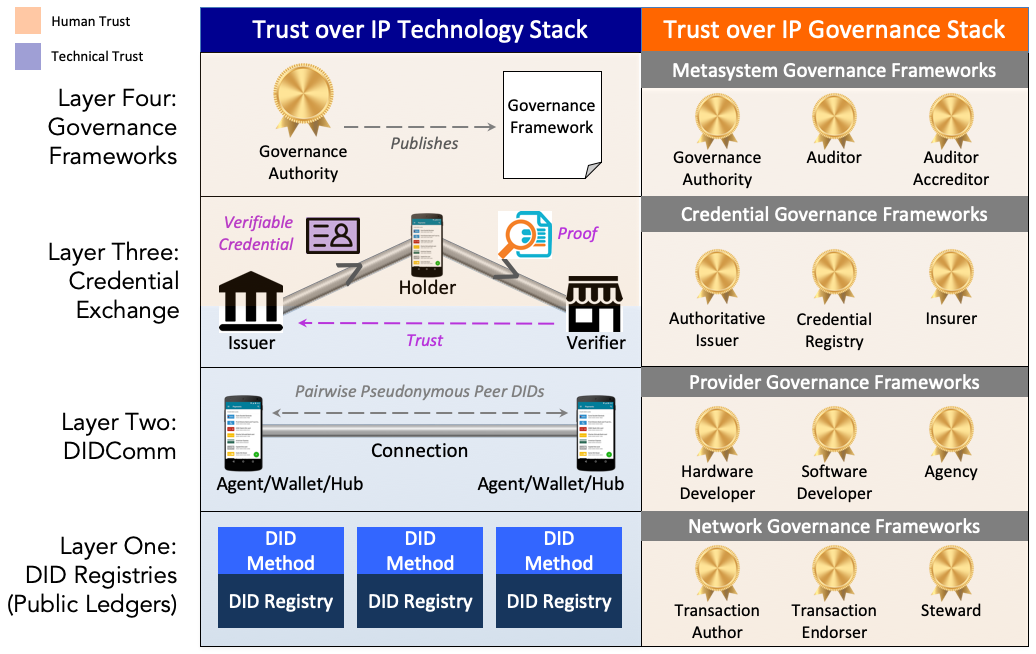
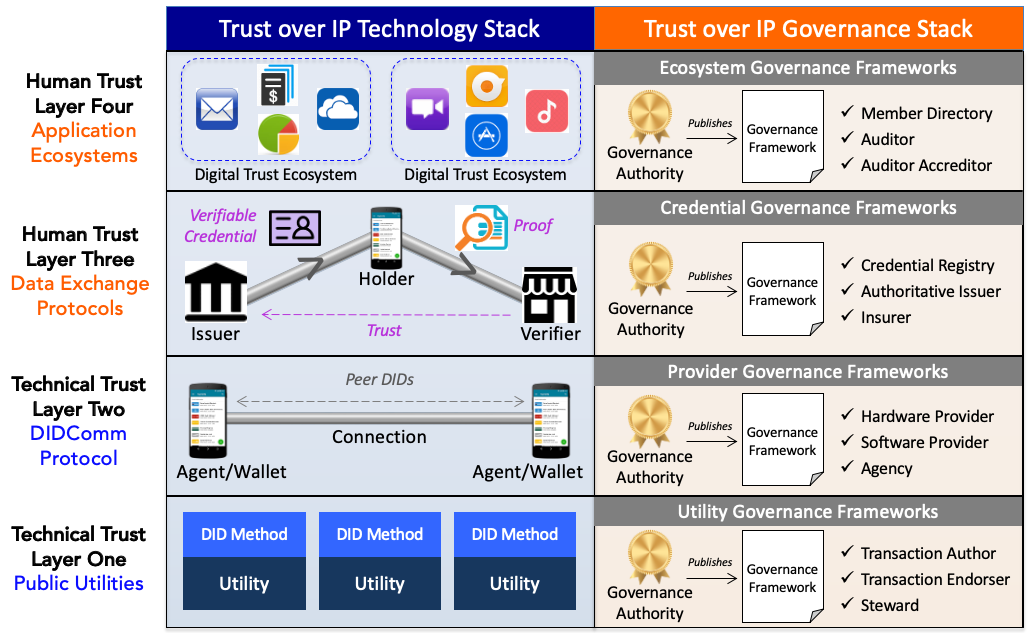
revised per latest ToIP stack diagram

diff --git a/concepts/0289-toip-stack/README.md b/concepts/0289-toip-stack/README.md
@@ -17,7 +17,7 @@ This widely-adopted open source implementation of the TCP/IP stack offered the c
 In addition, secure protocol suites such as the Secure Sockets Layer (SSL), and its modern version, Transport Layer Security (TLS), have been protecting Internet transactions since 1995.
 
 Without a doubt, implementations of the TCP/IP stack, followed by SSL/TLS, have driven a tremendous amount of innovation over the last 30 years.
-However, although protocols such as TLS offer world-class security, the architecture over which they have been built leaves a significant and widely-recognized gap: a means for any peer to establish trust over these digital connections. For example, while TLS does allow a user to trust she is accessing the right website, it does not offer, at least in an usable way, a way for the user to _log in_, or prove her identity, to the website. This gap has often been referred to as "the Internet's missing identity layer" [3].
+However, although protocols such as TLS offer world-class security, the architecture over which they have been built leaves a significant and widely-recognized gap: **a means for any peer to establish trust over these digital connections**. For example, while TLS does allow a user to trust she is accessing the right website, it does not offer, at least in an usable way, a way for the user to _log in_, or prove her identity, to the website. This gap has often been referred to as "the Internet's missing identity layer" [3].
 
 The purpose of this Aries Concept RFC is to fill this gap by defining a standard information network architecture that developers can implement to establish trusted relationships over digital communicatons networks.
 
@@ -30,9 +30,13 @@ Since the ultimate purpose of an "identity layer" is not actually to identify en
 
 **Figure 1: The ToIP stack**
 
-Note that it is actually a "dual stack": two parallel stacks encompassing both technology and governance. This reflects the fact that digital trust cannot be achieved by technology alone, but only by humans and technology working together. The unique role of governance in the ToIP stack is explored in detail in the section on Layer Four.
+Note that it is actually a "dual stack": two parallel stacks encompassing both technology and governance. This reflects the fact that digital trust cannot be achieved by technology alone, but only by humans and technology working together.
 
-## Layer One: Decentralized Identifier (DID) Networks
+**Important: The ToIP stack does not define specific governance frameworks.** Rather it is a *metamodel* for how to design and implement digital governance frameworks that can be universally referenced, understood, and consumed in order to facilitate transitive trust online. This approach to defining governance makes it easier for  humans—and the software agents that represent us at Layer Two—to make trust decisions both within and across trust boundaries.
+
+The ToIP Governance Stack plays a special role in ToIP architecture. See the descriptions of the specialized governance frameworks at each layer and also the special section on Scaling Digital Trust.
+
+## Layer One: Public Utilities for Decentralized Identifiers (DIDs)
 
 The ToIP stack is fundamentally made possible by new advancements in cryptography and distributed systems, including blockchains and distributed ledgers. Their high availability and cryptographic verifiability enable strong roots of trust that are decentralized so they will not serve as single points of failure.
 
@@ -57,21 +61,34 @@ Figure 2 shows the resemblance between DID syntax and URN syntax (RFC 8141).
 
 Like the URN specification, the DID specification also defines a generic URI scheme which is in turn used for defining other specific URI schemes. With DIDs, these are called *DID methods*. Each DID method is defined by its own DID method specification that must include:
 
-1. The target system (called a *DID registry*) against which the DID method operates. Note that this is not limited to a blockchain or distributed ledger. DID methods can be designed to work with any type of distributed database, file system, or other system that can anchor a cryptographic root of trust.
+1. The target system (technically called a *verifiable data registry*) against which the DID method operates. In the ToIP stack this is called a *utility*. Note that a utility is not limited to a blockchain or distributed ledger. DID methods can be designed to work with any type of distributed database, file system, or other system that can anchor a cryptographic root of trust.
 2. The DID method name.
 3. The syntax of the DID method-specific string.
 4. The CRUD (Create, Read, Update, Delete) operations for DIDs and DID documents that conform to the specification.
 
-DIDs have already proved to be a popular solution to decentralized PKI (public key infrastructure) [8]. Over 33 DID methods have already been registered in the informal DID Method Registry [9] hosted by the W3C Credentials Community Group. They include methods for:
+DIDs have already proved to be a popular solution to decentralized PKI (public key infrastructure) [8]. Over 40 DID methods have already been registered in the informal DID Method Registry [9] hosted by the W3C Credentials Community Group. They include methods for:
 
 * Permissionless blockchains such as Bitcoin (three methods), Ethereum (six methods), Veres One, IOTA, RChain, Ontology, etc.
 * Permissioned ledgers such as the [Sovrin ledger](https://sovrin.org/).
 * Distributed file systems such as IPFS.
 * Ledgerless P2P networks such as git, JLINC, and peer DIDs.
 
+### Utility Governance Frameworks
+
+A Layer One public utility may choose any governance model suited to the the constraints of its business model, legal model, and technical architecture. This is true whether the public utility is operated as a blockchain, distributed ledger, or decentralized file store, or whether it is permissioned, permissionless, or any hybrid. (Note that even permissionless blockchain networks still have rules—formal or informal—governing who can update the code.)
+
+All ToIP architecture requires is that the governance model conform to the requirements of the ToIP Governance Stack to support both interoperability and transitive trust. This includes transparent identification of the governance authority, the governance framework, and participant nodes or operators; transparent discovery of nodes and/or service endpoints; and transparent security, privacy, data protection, and other operational policies. See the Governance section below.
+
+The ToIP Governance Stack Utility Governance Framework model will support standard roles for public-permissioned utilities such as those based on Hyperledger Indy, including:
+
+* **Transaction Authors:** initiate transactions
+* **Transaction Endorsers:** permission transactions for Transaction Authors
+* **Stewards:** operate a node of the ledger
+
+
 ### Layer One Support for Higher Layers
 
-DIDs and DID documents are not the only cryptographic data structures that Layer One provides to support the higher layers. The others include:
+DIDs and DID documents are not the only cryptographic data structures needed to support the higher layers. The others include:
 
 * **Schemas** define the claims (attributes) that can be included in verifiable credentials (Layer Three).
 * **Credential definitions** specify the claims and related metadata needed by an issuer of verifiable credentials (Layer Three).
@@ -80,7 +97,7 @@ DIDs and DID documents are not the only cryptographic data structures that Layer
 
 In summary, the interoperability of Layer One is defined by the W3C DID specification and Aries RFCs for the other cryptographic data structures listed above. Any DID registry that supports all of these data structures can work with any agent, wallet, and hub that operates at Layer Two.
 
-## Layer Two: DIDComm
+## Layer Two: The DIDComm Protocol
 
 The second layer of the Trust over IP stack is defined by the DIDComm secure messaging standards [10]. This family of specifications, which are now being defined in the DIDComm Working Group at the [Decentralized Identity Foundation](https://identity.foundation/) , establish a cryptographic means by which any two software agents (peers) can securely communicate either directly edge-to-edge or via intermediate cloud agents as shown in Figure 3).
 
@@ -92,7 +109,7 @@ The second layer of the Trust over IP stack is defined by the DIDComm secure mes
 
 A fundamental feature of DIDComm is that by default all DID-to-DID connections are established and secured using pairwise pseudonymous *peer DIDs* as defined in the [Peer DID Method Specification](https://openssi.github.io/peer-did-method-spec/) [11]. These DIDs are based on key pairs generated and stored by the local cryptographic key management system (KMS, aka "wallet") maintained by each agent. Agents then use the DID Exchange protocol to exchange peer DIDs and DID documents in order to establish and maintain secure private *connections* between each other—including key rotation or revocation as needed during the lifetime of a trusted relationship.
 
-Because all of the components of peer DIDs and DID-to-DID connections are created, stored, and managed at Layer Two, there is no need for them to be registered in a Layer One public DID registry. In fact there are good privacy and security reasons not to—these components can stay entirely private to the peers. As a general rule, the only ToIP actors who should need public DIDs at Layer One are credential issuers as explained in Layer Three below.
+Because all of the components of peer DIDs and DID-to-DID connections are created, stored, and managed at Layer Two, there is no need for them to be registered in a Layer One public utility. In fact there are good privacy and security reasons not to—these components can stay entirely private to the peers. As a general rule, the only ToIP actors who should need public DIDs at Layer One are credential issuers as explained in Layer Three below.
 
 This also means that, once formed, DID-to-DID connections can be used for any type of secure communications between the peers. Furthermore, these connections are capable of lasting literally *forever*. There are no intermediary service providers of any kind involved. The only reason a DID-to-DID connection needs to end is that one or both of the peers no longer wants it.
 
@@ -102,23 +119,31 @@ At Layer Two, every agent is paired with a *digital wallet*—or more accurately
 
 This job includes the difficult challenge of recovery after a device is lost or stolen or a KMS is hacked or corrupted. This is the province of decentralized key management. For more details, see the [Decentralized Key Management System (DKMS) Design and Architecture document](http://bit.ly/dkms-v4) [12], and Dr. Sam Smith's paper on [KERI (Key Event Receipt Infrastructure)](https://arxiv.org/abs/1907.02143) [13].
 
-### Hubs
+### Encrypted Data Stores
 
-Agents may also be paired with a digital *hub* (also called an *encrypted data vault*)—a data store with three special properties:
+Agents may also be paired with an *encrypted data store*—a database with three special properties:
 
 1. It is controlled exclusively by the DID controller (person, organization, or thing) and not by any intermediary or third party.
 2. All the data is encrypted with private keys in the subject’s KMS.
-3. If a DID controller has more than one hub, the set of hubs can be automatically synchronized according to the owner’s preferences.
+3. If a DID controller has more than one encrypted data store, the set of stores can be automatically synchronized according to the owner’s preferences.
 
-Work on standardizing digital hubs is proceeding in different projects besides Aries, including at the [Decentralized Identity Foundation](http://identity.foundation/), the [Ethereum Foundation](https://ethereum.org/), and the [W3C Credentials Community Group](https://www.w3.org/community/credentials/) .
+Work on standardizing encrypted data stores is proceeding in several projects in addition to Hyperledger Aries—primarily at the [Decentralized Identity Foundation](http://identity.foundation/) (DIF) and the [W3C Credentials Community Group](https://www.w3.org/community/credentials/). Work is currently underway to form an Encrypted Data Store Working Group at DIF.
+
+### Provider Governance Frameworks
+
+The need for governance at Layer Two is security, privacy, data protection, and interoperable testing and certification requirements for the following roles:
+
+* **Hardware Developers:** provide ToIP-compliant hardware, e.g., secure enclaves, trusted execution environments, HSMs
+* **Software Developers:** provide ToIP-compliant agents, wallets, encrypted data stores, etc.
+* **Agencies:** host ToIP-compliant cloud agents
 
 ### Layer Two Support for Higher Layers
 
 The purpose of Layer Two is to enable peers to form secure DID-to-DID connections so they can:
 
 1. Issue, exchange, and verify credentials over these connections at Layer Three.
-2. Access the Layer One cryptographic data structures needed to issue and verify these credentials regardless of the DID registry used by the issuer.
-3. Migrate and port ToIP data between agents, wallets, and hubs without restriction. This data portability is critical to the broad adoption and interoperability of ToIP.
+2. Access the Layer One cryptographic data structures needed to issue and verify these credentials regardless of the public utility used by the issuer.
+3. Migrate and port ToIP data between agents, wallets, and  encrypted data stores without restriction. This data portability is critical to the broad adoption and interoperability of ToIP.
 
 ## Layer Three: Verifiable Credential Exchange
 
@@ -130,9 +155,9 @@ Layer Three is currently the most advanced in terms of open standards. After sev
 
 Figure 4 is a diagram of the three core roles in verifiable credential exchange—often called the "trust triangle". For more information see the [Verifiable Credentials Primer](https://github.com/WebOfTrustInfo/rwot8-barcelona/blob/master/topics-and-advance-readings/verifiable-credentials-primer.md) [15].
 
-![Figure 4: The three main roles in the W3C Verifiable Credentials ecosystem](./img/fig-4-vc-trust-triangle.png)
+![Figure 4: The three primary roles in the W3C Verifiable Credentials Data Model](./img/fig-4-vc-trust-triangle.png)
 
-**Figure 4: The three main roles in the W3C Verifiable Credentials ecosystem**
+**Figure 4: The three primary roles in the W3C Verifiable Credentials Data Model**
 
 ### Credential Proof Types
 
@@ -151,31 +176,54 @@ All three proof types address specific needs in the market:
 To support all three of these credential proof types in the ToIP stack means:
 
 * Layer One must support the data structures necessary to issue and verify each proof type.
-* Layer Two agents, wallets, and hubs must support storage and export of the cryptographic materials needed for each proof type.
+* Layer Two agents, wallets, and encrypted data stores must support storage and export of the cryptographic materials needed for each proof type.
 * Layer Three must support credential exchange protocols for each proof type.
 
 ### Credential Exchange Protocols
 
-At Layer Three, the exchange of verifiable credentials is performed by agents using extensions of the DIDComm protocol. Extension protocol specifications are being published as part of the DIDComm suite [10]. Extension protocols are unique to each credential proof type because the request and response formats are different. The goal of the ToIP stack is to standardize all supported credential exchange protocols so that any ToIP-compatible agent, wallet, and hub can work with any other agent, wallet, and hub.
+At Layer Three, the exchange of verifiable credentials is performed by agents using extensions of the DIDComm protocol. Extension protocol specifications are being published as part of the DIDComm suite [10]. Extension protocols are unique to each credential proof type because the request and response formats are different. The goal of the ToIP stack is to standardize all supported credential exchange protocols so that any ToIP-compatible agent, wallet, and encrypted data store can work with any other agent, wallet, and encrypted data store.
 
 With fully interoperable verifiable credentials, any issuer may issue any set of claims to any holder who can then prove them to any verifier. This is a fully decentralized system that uses the same trust triangle as the physical credentials we carry in our physical wallets today. This simple, universal trust model can be adapted to any set of requirements from any trust community. Even better, in most cases it does not require new “trust infrastructure”, rather it simply enables existing physical credentials to be transformed into a more flexible and useful digital format.
 
+### Credential Governance Frameworks
+
+Since Layer Three is where the ToIP stack crosses over from technical trust to human trust, this is the layer where governance frameworks become a critical component for interoperability and scalability of digital trust ecosystems. Credential governance frameworks specify one or more credential definitions together with the list or policy governing who can be the authoritative issuers for those credentials. They also specify the policies those issuers must follow to issue and revoke those credentials, and furthermore can include business models, liability frameworks, and insurance models.
+
+Standard for credential governance frameworks that will be defined under the ToIP Governance Stack model include:
+
+* **Authoritative Issuers:** an issuer authorized by the governance authority to issue specific types of credentials at specific levels of assurance
+* **Credential Registries:** An alternate authoritative holder of credentials (usually to support public searchable directories)
+* **Insurers:** provide insurance to issuers operating under the terms of the governance framework
+
 ### Layer Three Support for Higher Layers
 
-Layer Three enables human trust—in the form of verifiable assertions about entities, attributes and relationships—to be layered over the cryptographic trust provided by Layers One and Two. Layer Four adds interoperable governance models to Layer Three. While governance itself is a quintessentially human process, it is still supported by specific technical features of Layer Three:
+Layer Three enables human trust—in the form of verifiable assertions about entities, attributes and relationships—to be layered over the cryptographic trust provided by Layers One and Two. Layer Four is the application ecosystems that request and consume these verifiable credentials in order to support the specific trust models and policies of their own digital trust ecosystem.
 
-* **Specific types of verifiable credentials** implement the roles and responsibilities defined in governance frameworks.
-* **Specific types of verifiable credential claims** enable them to be linked to governance frameworks.
+## Layer Four: Application Ecosystems
 
-These special types of verifiable credentials and claims will typically be defined by *metasystem governance frameworks* (see below).
+Layer Four is the layer where humans interact with applications in order to engage in trusted interactions that serve a specific business, legal, or social purpose. Just as applications call the TCP/IP stack to communicate over the Internet, applications call the ToIP stack to register DIDs, form connections, obtain and exchange verifiable credentials, and engage in trusted data exchange using the protocols in Layers One, Two, and Three.
 
-## Layer Four: Governance Frameworks
+The ToIP stack no more  limits the applications that can be built on it than the TCP/IP stack  limits the applications that can be built on the Internet. The ToIP stack simply defines the "tools and rules"—technology and governance—for those applications to interoperate within digital trust ecosystems that provide the security, privacy, and data protection that their members expect. The ToIP stack also enables consistent user experience of trust decisions across applications and ecosystems that is critical to achieving widespread trust online—just as a consistent user experience of the controls for driving a car (steering wheel, gas pedal, brakes, turn signals) are critical to the safety of drivers throughout the world.
 
-The top half of Figure 5 below shows the basic trust triangle architecture used by verifiable credentials. The bottom half shows a second trust triangle—the *governance trust triangle*—that can solve a number of problems related to the real-world adoption and scalability of verifiable credentials.
+### Ecosystem Governance Frameworks
 
-![Figure 5: The role of governance frameworks](./img/fig-5-gov-frameworks.png)
+Layer Four is where humans will directly experience the ToIP Governance Stack—specifically the trust marks and policy promises of ecosystem governance frameworks. These specify the prupose, principes, and policies that apply to all  governance authorities and governance frameworks operating within that ecosystem—at all four levels of the ToIP stack.
 
-**Figure 5: The role of governance frameworks**
+The ToIP Governance Stack will specify standard roles for an ecosystem governance framework (EGF) including:
+
+* **Member Directories:** list the public DIDs and other searchable attributes of participants in the EGF
+* **Auditors:** audit participants in a EGF for compliance with the EGF policies
+* **Accreditors:** accredit auditors for a EGF
+
+To fully understand the scope and power of ecosystem governance frameworks, let us dive deeper into the special role of the ToIP Governance Stack.
+
+## Scaling Digital Trust
+
+The top half of Figure 5 below shows the basic trust triangle architecture used by verifiable credentials. The bottom half shows a second trust triangle—the *governance trust triangle*—that can solve a number of problems related to the real-world adoption and scalability of verifiable credentials and the ToIP stack.
+
+![Figure 5: The special role of governance frameworks](./img/fig-5-gov-frameworks.png)
+
+**Figure 5: The special role of governance frameworks**
 
 ### Governance Authorities
 
@@ -183,60 +231,13 @@ The governance trust triangle in Figure 5 represents the same governance model t
 
 These credentials are "backed" by rules and policies that in many cases have taken decades to evolve. These rules and policies have been developed, published, and enforced by many different types of existing governance authorities—private companies, industry consortia, financial networks, and of course governments.
 
-The same model can be applied to verifiable credentials simply by having these same governance authorities—or new ones formed explicitly to govern verifiable credentials—publish *digital* governance frameworks. Different governance authorities will have different structures and different degrees of centralization or decentralization depending on the needs of their trust community.
-
-### Scaling Digital Trust
-
-Any group of issuers who want to standardize, strengthen, and scale the credentials they offer can join together under the auspices of a sponsoring authority to craft a governance framework. No matter the form of the organization—government, consortia, association, cooperative—the purpose is the same: define the business, legal, and technical rules under which the members agree to operate in order to achieve trust.
+The same model can be applied to verifiable credentials simply by having these same governance authorities—or new ones formed explicitly for ToIP governance—publish *digital* governance frameworks. Any group of issuers who want to standardize, strengthen, and scale the credentials they offer can join together under the auspices of a sponsoring authority to craft a governance framework. No matter the form of the organization—government, consortia, association, cooperative—the purpose is the same: define the business, legal, and technical rules under which the members agree to operate in order to achieve trust.
 
 This of course is exactly how Mastercard and Visa—two of the world’s largest trust networks—have scaled. Any bank or merchant can verify in seconds that another bank or merchant is a member of the network and thus bound by its rules.
 
 With the ToIP stack, this governance architecture can be applied to any set of roles and/or credentials, for any trust community, of any size, in any jurisdiction.
 
-### Layers in the Governance Stack
-
-The ToIP stack does not define specific governance frameworks, rather it is a *metamodel* for how to design and implement digital governance frameworks that can be universally understood, referenced, and navigated online. This approach makes it easier for humans—and the software agents that represent us at Layer Two—to make trust decisions  within and across trust boundaries.
-
-Because governance applies at every layer of the ToIP stack, the **ToIP Governance Stack** is actually a parallel stack covering all four levels, with each layer serving a specific purpose:
-
-1. **Network Governance Frameworks** specify the rules for operation of a DID registry, no matter what its form or governance model (e.g., public or private, permissioned or permissionless). Note that even permissionless blockchain networks still have rules—formal or informal—governing who can update the code.
-2. **Provider Governance Frameworks** specify the rules for how providers of ToIP hardware, software, and agencies (hosting providers for cloud agents, wallets, and hubs) can be verified and certified.
-3. **Credential Governance Frameworks** specify one or more credential definitions together with the list or policy governing who can be the authoritative issuers for those credentials. They also specify the policies those issuers must follow to issue and revoke those credentials, and furthermore can include business models, liability frameworks, and insurance models.
-4. **Metasystem Governance Frameworks** are designed to serve as umbrellas governing interoperability among entire trust ecosystems. They specify policies that apply to all the governance authorities and governance frameworks operating within that ecosystem—at all four levels of the ToIP stack.
-
-### Roles in the Governance Stack
-
-Table 1 summarizes twelve roles currently being defined in the ToIP governance stack. Each role represents a specific responsibility at a specific layer. The same legal entity may of course play more than one role—at the same layer, or at multiple layers.
-
-|   **Layer Four Roles**  |                                                           |
-|:-----------------------:|:---------------------------------------------------------:|
-|  Governance Authority   |   Publishes and administers a governance framework (GF)   |
-|         Auditor         |       Audits participants for compliance with a GF        |
-|   Auditor Accreditor    |                Accredits auditors for a GF                |
-| | ***** |
-|  **Layer Three Roles**  |                                                           |
-|  Authoritative Issuer   |      Authoritative issuer of a credential under a GF      |
-|   Credential Registry   | Authoritative alternate holder (directory) of credentials |
-|         Insurer         |     Insures issuers operating under the terms of a GF     |
-| | ***** |
-|   **Layer Two Roles**   |                                                           |
-|   Hardware Developer    |             Provides ToIP-compliant hardware              |
-|   Software Developer    |       Provides ToIP-compliant agents, wallets, hubs       |
-|         Agency          |             Hosts ToIP-compliant cloud agents             |
-| | ***** |
-|   **Layer One Roles**   |                                                           |
-| Transaction Author (TA) |         Initiates a transaction on a DID network          |
-|  Transaction Endorser   | Facilitates TA transactions on a permissioned DID network |
-|         Steward         |       Operates a node of a permissioned DID network       |
-
-**Table 1: Standard roles in the ToIP governance metamodel**
-
-As an historical note, some facets of the ToIP governance stack are inspired by the [Sovrin Governance Framework (SGF)](https://sovrin.org/governance-framework/) [16] developed starting in 2017 by the [Sovrin Foundation](https://www.sovrin.org), the governance authority for the Sovrin public ledger for self-sovereign identity (SSI). The current second-generation SGF represents a combination of:
-
-1. A Layer One network governance framework for Transaction Authors, Transaction Endorsers, and Stewards of the Sovrin ledger, and
-1. A Layer Four metasystem governance framework for the Sovrin ecosystem as a whole.
-
-The Sovrin Governance Framework Working Group [17] is currently developing a third generation of the SGF that will fully adapt it to the ToIP governance metamodel.
+As an historical note, some facets of the ToIP governance stack are inspired by the [Sovrin Governance Framework (SGF)](https://sovrin.org/governance-framework/) [16] developed starting in 2017 by the [Sovrin Foundation](https://www.sovrin.org), the governance authority for the Sovrin public ledger for self-sovereign identity (SSI).
 
 ### Defining a Governance Framework
 
@@ -252,8 +253,8 @@ Figure 6 shows this basic architectural model:
 
 Verifiers often need to verify that a credential was issued by an authoritative issuer. The ToIP stack will give governance authorities multiple mechanisms for designating their set of authoritative issuers (these options are non-exclusive—they can each be used independently or in any combination):
 
-1. **DID Documents.** The governance authority can publish the list of their DIDs in a DID document on one or more DID registries of its choice.
-2. **Whitelists.** A governance authority can publish a list of DIDs via a whitelisting service available at a standard service endpoint published in the governance authority’s own DID document.
+1. **DID Documents.** The governance authority can publish the list of their DIDs in a DID document on one or more public utilities of its choice.
+2. **Member Directories.** A governance authority can publish a "whitelist" of DIDs via a whitelisting service available at a standard service endpoint published in the governance authority’s own DID document.
 3. **Credential registries.** If search and discovery of authoritative issuers is desired, a governance authority can publish verifiable credentials containing both the DID and additional attributes for each authoritative issuer in a credential registry.  Note that in this case the credential registry serves as a *separate, cryptographically-verifiable holder of the credential*—a holder that is not the subject of the credential, but which can independently prove the validity of the credential.
 4. **Verifiable credentials.** As shown in Figure 5, the governance authority (or its designated auditors) can issue verifiable credentials to the authoritative issuers, which they in turn can provide directly to verifiers or indirectly via credential holders.
 
@@ -261,23 +262,17 @@ Verifiers often need to verify that a credential was issued by an authoritative 
 
 The ToIP governance stack is designed to be compatible with—and an implementation vehicle for—national governance frameworks such as the [Pan-Canadian Trust Framework (PCTF)](https://diacc.ca/pan-canadian-trust-framework/) [18] being developed through a public/private sector collaboration with the [Digital Identity and Authentication Council of Canada (DIACC)](https://diacc.ca/). It should also interoperate with regional and local governance frameworks of all kinds. For example, the Province of British Columbia (BC) has implemented a ToIP-compatible verifiable credential registry service called [OrgBook BC](https://orgbook.gov.bc.ca). OrgBook is a holder/prover service for legally registered entities in BC and is built using [Indy Catalyst](https://www.github.com/bcgov/indy-catalyst) and [Hyperledger Aries Cloud Agent - Python](https://github.com/hyperledger/aries-cloudagent-python). Other provinces such as Ontario and Alberta as well as the Canadian federal government have begun to experiment with these services for business credentials, giving rise to new kind of network where trust is at the edge. For more information see the [VON (Verifiable Organization Network)](https://vonx.io/) [19].
 
-## Building a World of Interoperable Trust Networks
+## Building a World of Interoperable Digital Trust Ecosystems
 
-The Internet is a network of networks, where the interconnections between each network are facilitated through the TCP/IP stack. The ToIP-enable Internet is a *trust network of trust networks*, where the interconnections between each trust network are facilitated through the ToIP stack. In this picture, the boundaries of each trust network are determined by the governance framework(s) under which its members are operating.
+The Internet is a network of networks, where the interconnections between each network are facilitated through the TCP/IP stack. The ToIP-enable Internet is a *digital trust ecosystem of digital trust ecosystems*, where the interconnections between each digital trust ecosystem are facilitated through the ToIP stack. The boundaries of each digital trust ecosystem are determined by the governance framework(s) under which its members are operating.
 
 This allows the ToIP-enabled Internet to reflect the same diversity and richness it has today, but with a new ability to form and maintain trust relationships of any kind—personal, business, social, academic, political—at any distance. These trust relationships can cross trust boundaries as easily as IP packets can cross network boundaries today.
-
-Figure 7 is a simplified conceptual diagram of this ecosystem of overlapping trust networks operating at all four levels of the ToIP stack. Peers exist at every level, and the visible, reference-able governance frameworks enable participants in any of them have a common basis for making trust decisions about participants in the others.
-
-![Figure 7: Example of a ToIP ecosystem of trust networks](./img/fig-7-toip-ecosystems.png)
-
-Note the special role of metasystem governance frameworks. They form the largest overarching umbrellas of trust by establishing the common purpose, principles, and policies by which all governance authorities and governance frameworks in that metasystem will abide. As Figure 7 shows, some network, provider, or credential governance frameworks may be designed to be interoperable across multiple metasystem governance frameworks, providing even more bridges of trust.
 
 ## Conclusion: A Trust Layer for the Internet
 
 The purpose of the ToIP stack is to define a strong, decentralized, privacy-respecting trust layer for the Internet. It leverages blockchain technology and other new developments in cryptography, decentralized systems, cloud computing, mobile computing, and digital governance to solve longstanding problems in establishing and maintaining digital trust.
 
-This RFC will be updated to track the evolution of the ToIP stack as it is further developed through a series of Aries RFCs. We welcome comments and contributions.
+This RFC will be updated to track the evolution of the ToIP stack as it is further developed, both through Hyperledger Aries and via other projects at the Linux Foundation. We welcome comments and contributions.
 
 ## References
 
